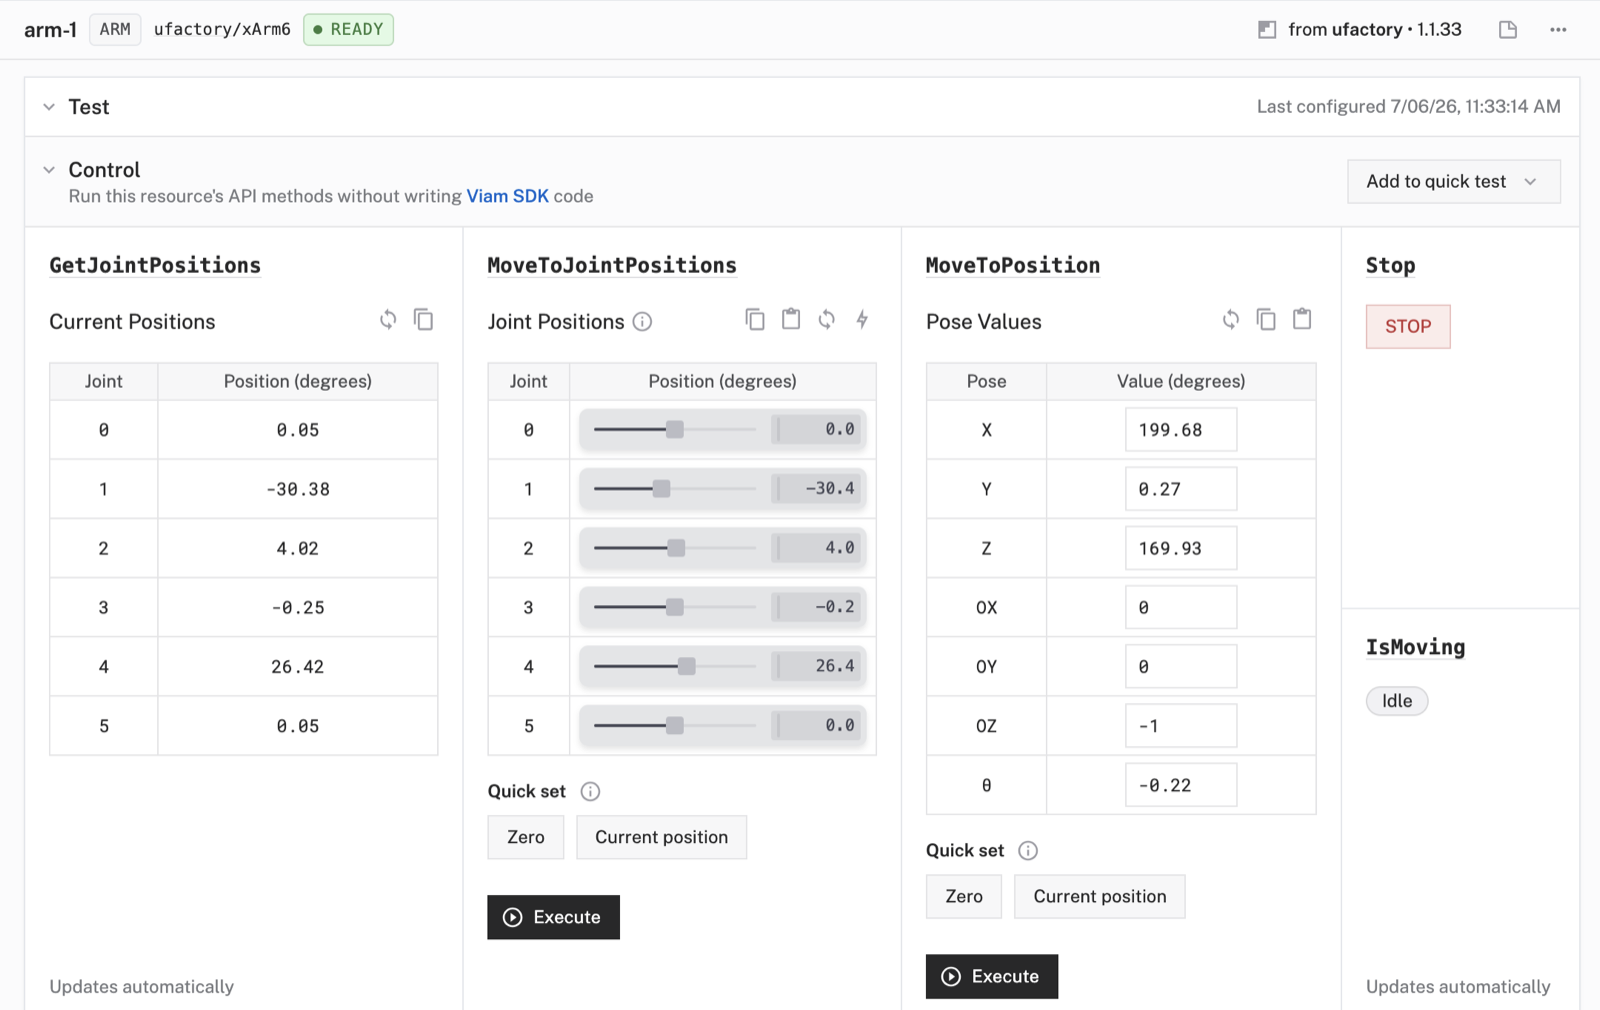
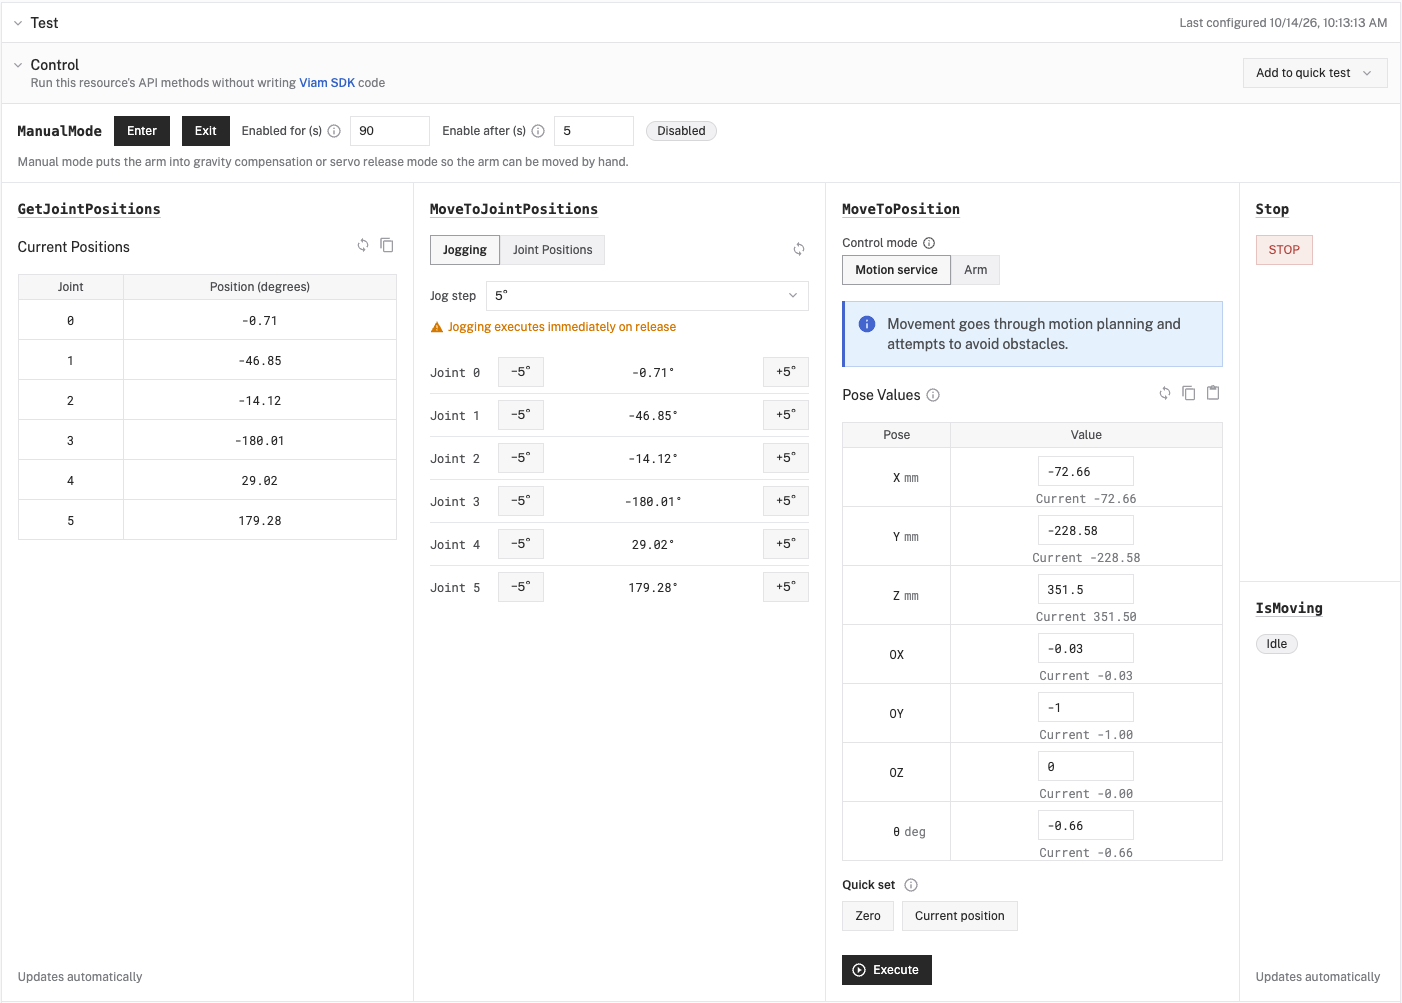
Update the arm card screenshot; leave the 3D scene widget list to #5386
Replaces control-arm-card.png with the current card (MoveToJointPositions in
Jogging mode) and updates its alt text. Reverts the 3d-scene-widgets.md edit.

Claude-Session: https://claude.ai/code/session_013BtEE62KnQUthPXmbwMwfo

diff --git a/docs/tutorials/pick-and-place/02-configure-resources.md b/docs/tutorials/pick-and-place/02-configure-resources.md
@@ -188,9 +188,9 @@ The next section moves the physical arm using joint control. Before you run a mo
 
 The arm card shows the arm's current joint positions, and provides two different control methods to test the arm, Joint Control and Cartesian control. Joint Control lets you manually set a joint's desired position and click execute, while the cartesian control lets you move the arm to a specific pose in space. Before using either, it is always a good idea to press **Current position** to set the desired values to match the arm's current state. Try moving the last two joints, joint 4 and joint 5 (the xArm6's six joints are numbered 0 through 5 in this UI): **MoveToJointPositions** opens in **Jogging** mode, so tap the **+** or **−** button next to each joint and watch the end of the arm move. Each tap moves the joint by the **Jog step** (5 degrees by default) as soon as you release the button. To set exact angles with sliders and **Execute** instead, switch to **Joint Positions** mode. Then, under **MoveToPosition**, press **Current position** and confirm the **Pose Values** populate with the arm's current x, y, and z.
 
-<!-- ASSET P1 control-arm-card (UI+): MoveToJointPositions sliders + Execute, and the MoveToPosition "Current position" button boxed -->
+<!-- ASSET P1 control-arm-card (UI+): MoveToJointPositions in Jogging mode with the per-joint jog buttons, and the MoveToPosition "Current position" button -->
 
-{{<imgproc src="/tutorials/pick-and-place/control-arm-card.png" resize="1200x" declaredimensions=true alt="The arm Control card with joint sliders, Execute, and the MoveToPosition Current position button.">}}
+{{<imgproc src="/tutorials/pick-and-place/control-arm-card.png" resize="1200x" declaredimensions=true alt="The arm Control card with MoveToJointPositions in Jogging mode, showing minus and plus 5 degree buttons for each joint, and MoveToPosition with its Current position and Execute buttons.">}}
 
 {{< checkpoint >}}
 Tapping a joint's jog button moves the physical arm, and pressing **Current position** under **MoveToPosition** fills the Pose Values. If nothing moves or you see an error message, confirm `arm-1` shows as online in the Configure tab and that the Logs tab has no connection errors for it.

diff --git a/docs/visualization/3d-scene/3d-scene-widgets.md b/docs/visualization/3d-scene/3d-scene-widgets.md
@@ -39,7 +39,7 @@ tab, so what a resource offers depends on its API:
 
 - Resources whose API is broken into individual controls list one toggle per control, named
   for the API method it drives. An arm, for example, lists **MoveToJointPositions**,
-  **MoveToPosition**, **Jogging**, **GetJointPositions**, **IsMoving**, and **DoCommand**.
+  **MoveToPosition**, **Quick move**, **GetJointPositions**, **IsMoving**, and **DoCommand**.
 - Resources without individual controls list a single **Overview** toggle that opens the
   resource's full control card.
 - The motion service lists a **Move** control: the frame-aware move panel that commands the
